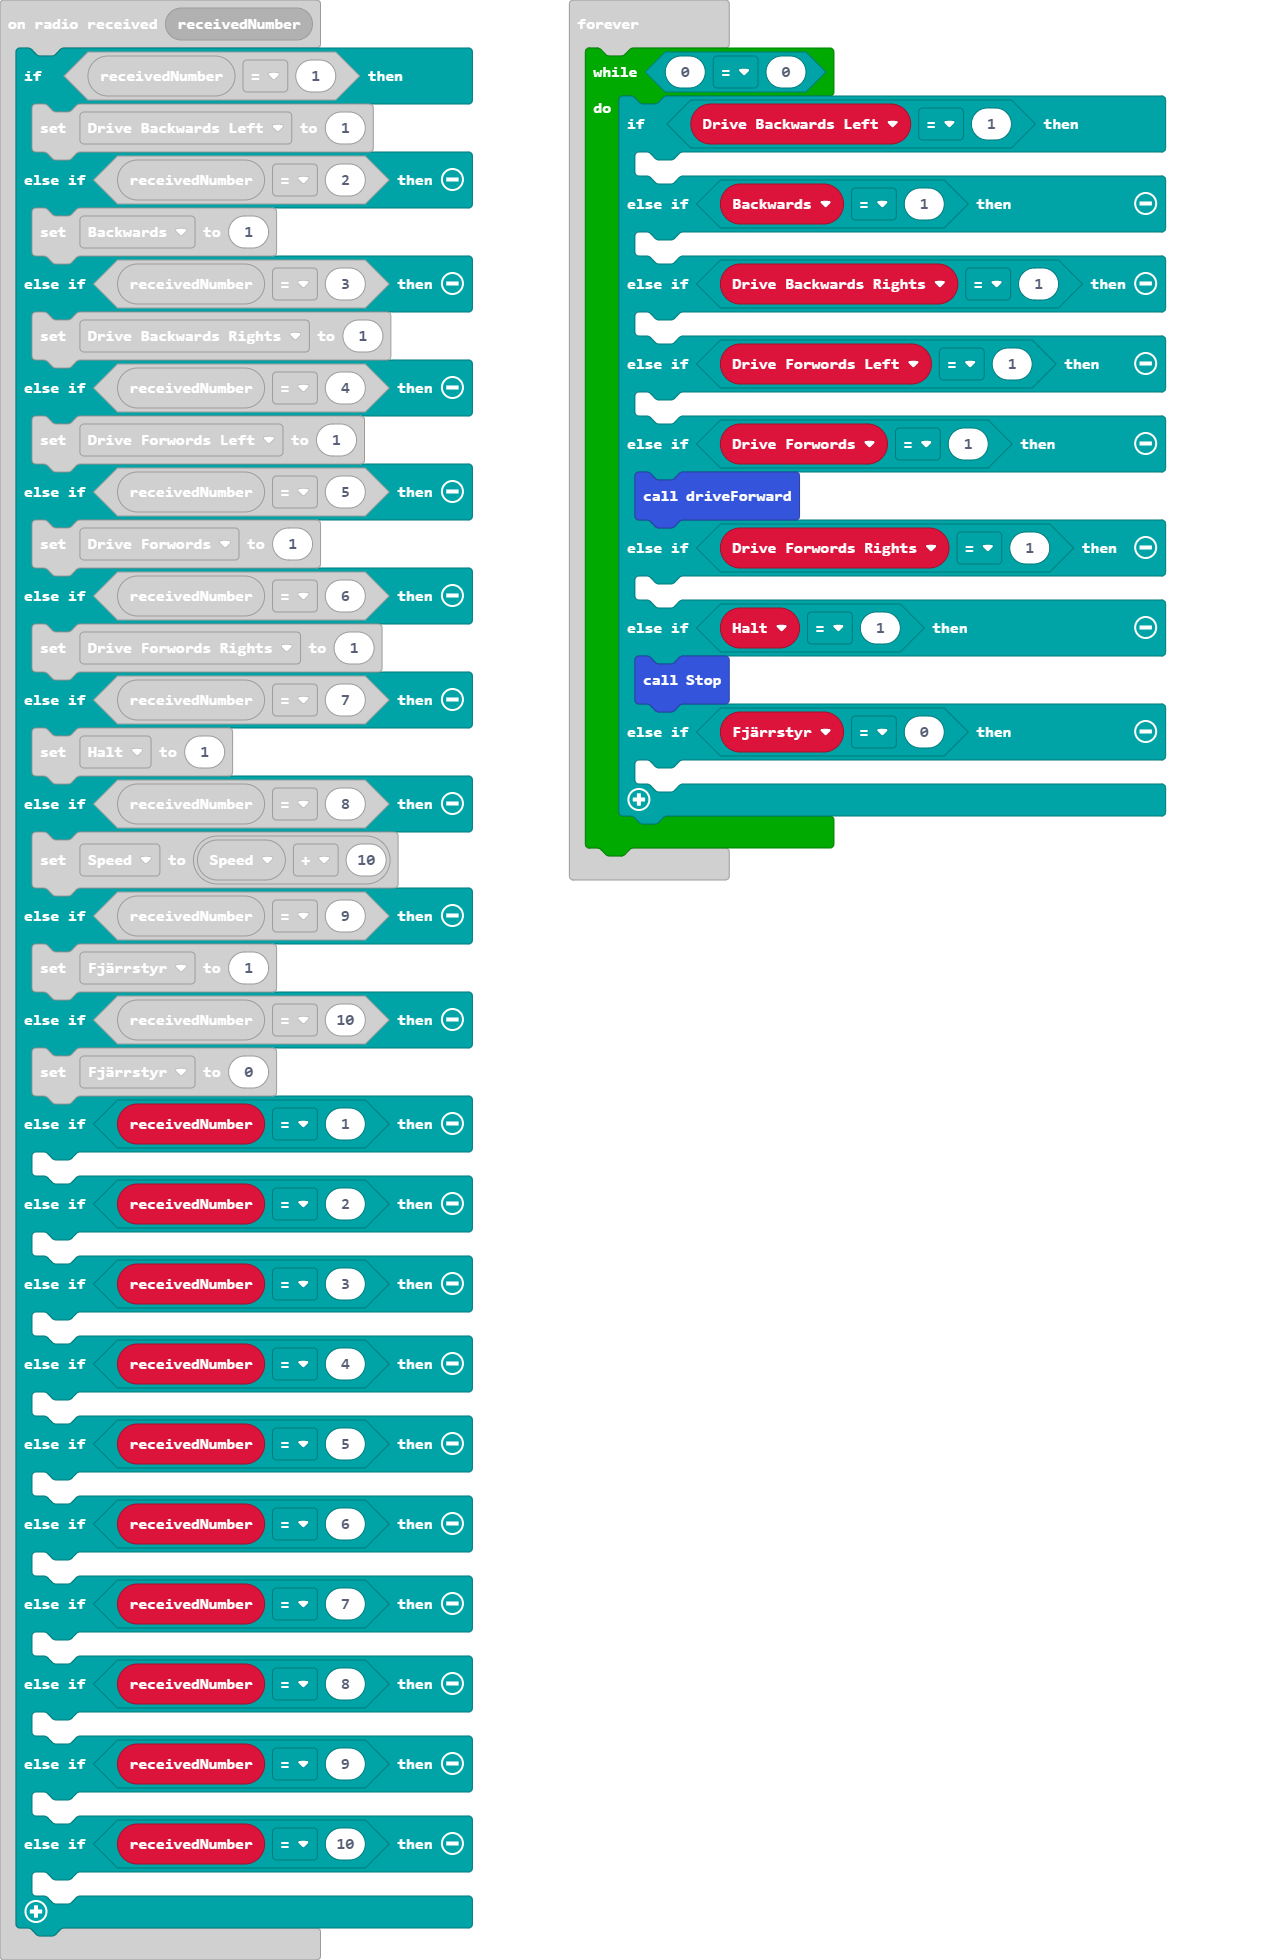
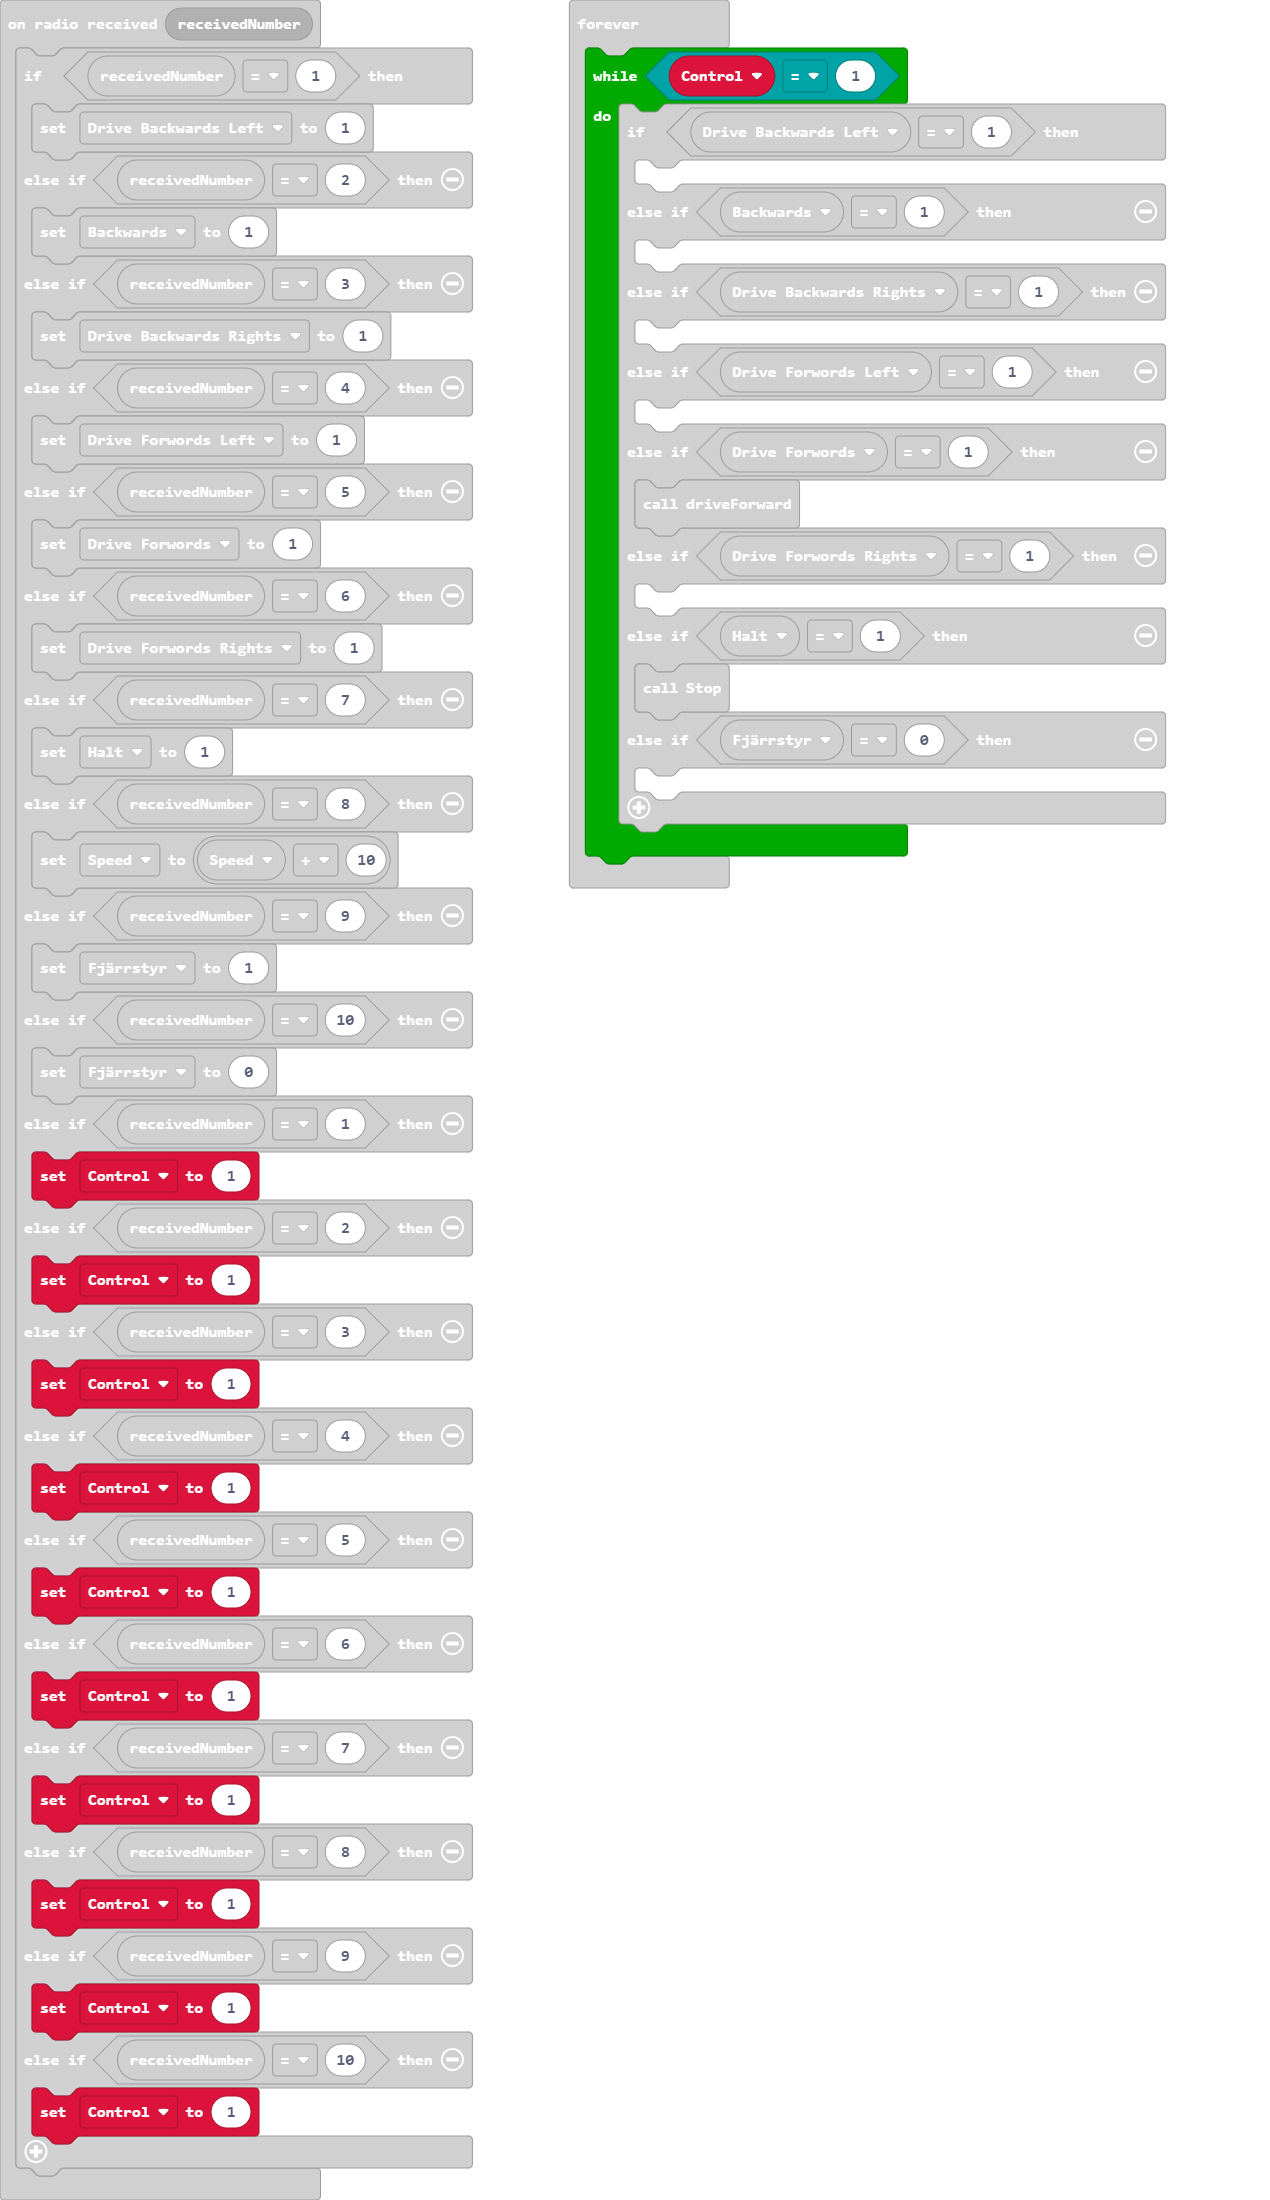
Update main.blocks, main.ts

diff --git a/main.ts b/main.ts
@@ -71,25 +71,25 @@ radio.onReceivedNumber(function (receivedNumber) {
     } else if (receivedNumber == 10) {
         Fjärrstyr = 0
     } else if (receivedNumber == 1) {
-    	
+        Control = 1
     } else if (receivedNumber == 2) {
-    	
+        Control = 1
     } else if (receivedNumber == 3) {
-    	
+        Control = 1
     } else if (receivedNumber == 4) {
-    	
+        Control = 1
     } else if (receivedNumber == 5) {
-    	
+        Control = 1
     } else if (receivedNumber == 6) {
-    	
+        Control = 1
     } else if (receivedNumber == 7) {
-    	
+        Control = 1
     } else if (receivedNumber == 8) {
-    	
+        Control = 1
     } else if (receivedNumber == 9) {
-    	
+        Control = 1
     } else if (receivedNumber == 10) {
-    	
+        Control = 1
     }
 })
 function lights_1 () {
@@ -304,6 +304,7 @@ function Lights_While_Line_folowers_on () {
         . . # . .
         `)
 }
+let Control = 0
 let Fjärrstyr = 0
 let Halt = 0
 let Drive_Forwords_Rights = 0
@@ -320,7 +321,7 @@ basic.forever(function () {
 	
 })
 basic.forever(function () {
-    while (0 == 0) {
+    while (Control == 1) {
         if (Drive_Backwards_Left == 1) {
         	
         } else if (Backwards == 1) {
